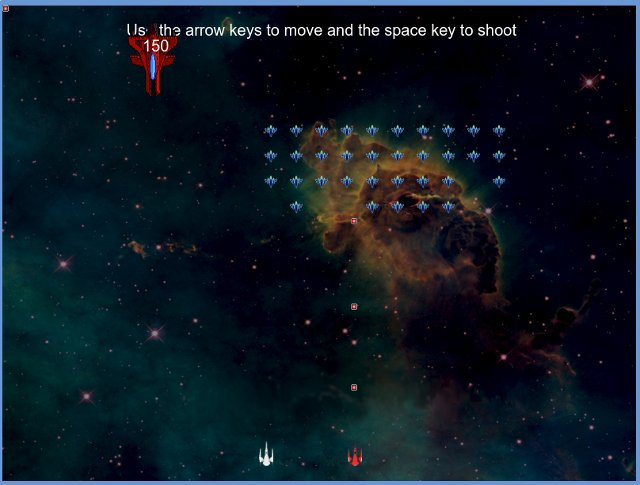
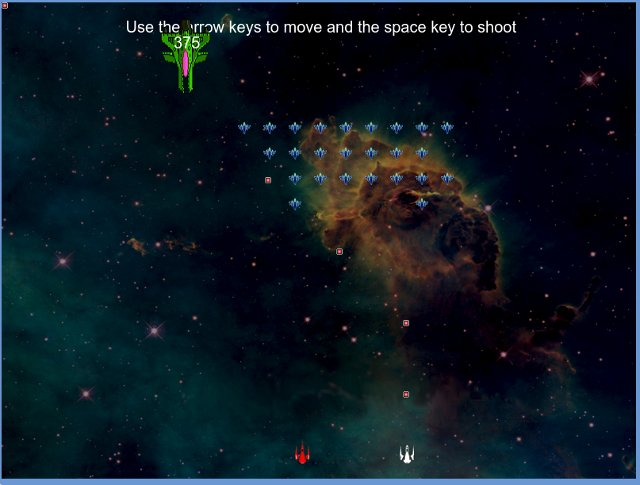
changed mothership color and screenshots

diff --git a/public/js/game/main_space_client.js b/public/js/game/main_space_client.js
@@ -627,7 +627,7 @@ function InitShareState_Space()
   canEndGame = true;
   canSendAmount = true;
   if (xpGame == "dg")
-  {progressText.text = "You have been randomly attributed the role of giver.\n\n Before going on to the next task, please share the points with the other person. \n\n\n\nIndicate how much you want to give by clicking on the scale below.\n\n\n\n\n\n\n\n I want to GIVE:";
+  {progressText.text = "You have been randomly attributed the role of player A.\n\n You have 1000 points. \n\n\n\n Indicate how many points you want to give to player B by clicking on the scale below.\n\n\n\n\n\n\n\n I want to give:";
   progressText2.text = "Validate by pressing space.";
   }
   else 

diff --git a/app.js b/app.js
@@ -113,7 +113,7 @@ var mailSenderPassw = 'wivyxuvozz';                           //password of the 
 //////////////////////////////////////////////////////////////////////////////////////////////////////////////////////
   
 var 
-    current_experiment = CreateExperiment('dg_expe',"web",1,"dg","en",10),
+    current_experiment = CreateExperiment('dg_expe',"web",1,"space_coop","en",10),
     current_experiment_space = CreateExperiment('space_expe',"web",1,"space_coop","en",10),
     current_experiment_rabbits = CreateExperiment('rabbits_expe',"web",1,"rabbits","en",10),
     experimentsList = [current_experiment,current_experiment_space,current_experiment_rabbits];
